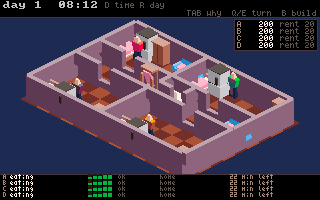
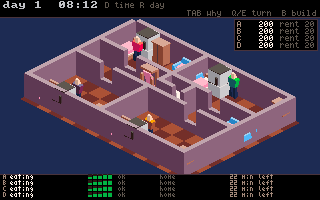
tenement: wall corners strobed — interpenetration plus an unstable sort, both fixed
The maker saw wall corners flicking between dark and light purple. Two causes
stacked, and each alone would have been enough.

1. THE WALLS INTERPENETRATE AT EVERY CORNER. The draw list STRADDLES them: a
   north wall is 2 voxels thick centred on its edge (y-1..y+1), a west wall
   likewise (x-1..x+1), so at a corner the two share a 1x1x12 COLUMN. Sprites
   never cared — both are the same opaque wall art — but meshes do: one wall's
   buried end face fights the other's surface, and since those two faces are lit
   as screen-right and screen-left they differ in SHADE, so the corner alternated.
   Interpenetration is the one artifact a painter's sort cannot resolve at any
   granularity, so it had to leave the geometry: each family is now nudged one
   voxel fully off the boundary, which makes corners TOUCH (north spans y-2..y,
   west spans x-2..x, zero shared volume) while consecutive walls still meet
   exactly. Cost is a one-voxel asymmetry in where a wall sits.

2. AND THE SORT WAS NOT DETERMINISTIC, which is what made it JUMP rather than
   merely look wrong. qsort is not stable, so two faces at equal depth come out
   in either order — and in an order that changes as UNRELATED elements move,
   because the pivots change. Residents move every frame, so a tied pair swapped
   every frame and the corner strobed. Triangles now carry an insertion index and
   the comparator is a total order, so the frame is a function of the scene alone.
[…]

diff --git a/runtime/tenement/art.h b/runtime/tenement/art.h
@@ -264,13 +264,21 @@ static const TnMesh TNR_MESHES[ISO_MODEL_COUNT] = {
 // ASCENDING so far draws first. Derived from the projection rather than assumed: a world offset
 // leaves the screen position unchanged when X==Y and (X+Y)*ISO_TH/2 == z*ISO_ZH, which for this
 // projection makes the view ray (1,1,1) in turned coords — so nearness is X + Y + z.
-typedef struct { int x[3], y[3]; float near; unsigned char col; } TnTri;
+typedef struct { int x[3], y[3]; float near; int seq; unsigned char col; } TnTri;
 #define TNR_MAX_TRIS 8192
 static TnTri tnr_tri[TNR_MAX_TRIS];
 static int   tnr_tri_n;
+// `seq` EXISTS TO BREAK TIES, and without it the picture flickers. qsort is NOT a stable sort, so
+// two faces at equal depth may come out in either order — and worse, in an order that changes as
+// UNRELATED elements move, because the pivot choices change. Residents move every frame, so a tied
+// pair of wall faces swapped every frame and the corner strobed between two shades. A total order
+// makes the frame a function of the scene alone. (zsort's insertion pass happens to be stable, so
+// this trap is created by the very change that made the sort affordable at this scale.)
 static int   tnr_cmp_tri(const void *a, const void *b) {
-    const float d = ((const TnTri*)a)->near - ((const TnTri*)b)->near;
-    return d < 0 ? -1 : (d > 0 ? 1 : 0);
+    const TnTri *p = (const TnTri*)a, *q = (const TnTri*)b;
+    if (p->near < q->near) return -1;
+    if (p->near > q->near) return  1;
+    return p->seq - q->seq;
 }
 static float tnr_near3(float vx, float vy, float vz) {
     float X, Y; tnr_iso_turn(tn_rot, vx, vy, &X, &Y); return X + Y + vz;
@@ -310,7 +318,7 @@ static void tnr_push(const float a[3], const float b[3], const float c[3], int c
         float sx, sy; tnr_iso_project(tn_rot, v[i][0], v[i][1], v[i][2], &sx, &sy);
         t->x[i] = (int)(sx + cam_x);  t->y[i] = (int)(sy + cam_y);
     }
-    t->near = nr;  t->col = (unsigned char)col;
+    t->near = nr;  t->col = (unsigned char)col;  t->seq = tnr_tri_n;
     tnr_tri_n++;
 }
 
@@ -389,9 +397,26 @@ static void tnr_draw_poly(void) {
         tnr_face(a, b, c, d, ((tx+ty)&1) ? TNM_FLOOR_A : TNM_FLOOR_B, -1);
     }
     for (int i = 0; i < tnr_dl_n; i++) {
-        const TnMesh *m = &TNR_MESHES[tnr_dl[i].cell];
+        const int cell = tnr_dl[i].cell;
+        const TnMesh *m = &TNR_MESHES[cell];
+        // WALLS ARE NUDGED FULLY ONTO ONE SIDE OF THEIR EDGE, and this is a correctness fix rather
+        // than a taste one. The draw list STRADDLES them: a north wall is two voxels thick centred
+        // on the boundary (y-1 .. y+1) and a west wall likewise (x-1 .. x+1), so at every corner the
+        // two share a 1x1x12 COLUMN. Sprites did not care — both are the same opaque wall art — but
+        // meshes do: one wall's buried end face fights the other's surface, and since the two faces
+        // are lit as screen-right and screen-left they differ in shade, so the corner strobed between
+        // dark and light. Interpenetration is the one artifact a painter's sort cannot resolve at any
+        // granularity, so it has to go from the GEOMETRY.
+        // Shifting each family one voxel off the boundary makes corners TOUCH instead of overlap
+        // (verify: north spans y-2..y and west spans x-2..x, and those two boxes share zero volume),
+        // while consecutive walls along one edge still meet exactly. The cost is that a wall sits
+        // just inside the tile north/west of its edge rather than centred on it — a one-voxel
+        // asymmetry, invisible next to a strobing corner.
+        float ox = tnr_dl[i].vx, oy = tnr_dl[i].vy;
+        if (cell == ISO_WALL_LOW_NS || cell == ISO_WALL_FULL_NS) oy -= 1.0f;
+        if (cell == ISO_WALL_LOW_EW || cell == ISO_WALL_FULL_EW) ox -= 1.0f;
         for (int p = 0; p < m->n; p++)
-            tnr_part(&m->p[p], tnr_dl[i].vx, tnr_dl[i].vy, tnr_dl[i].vz, tnr_dl[i].hh);
+            tnr_part(&m->p[p], ox, oy, tnr_dl[i].vz, tnr_dl[i].hh);
     }
     // qsort, NOT zsort: zsort is an insertion sort, and this scene is thousands of triangles where
     // that is millions of comparisons a frame. Same reason the draw list above qsorts.
